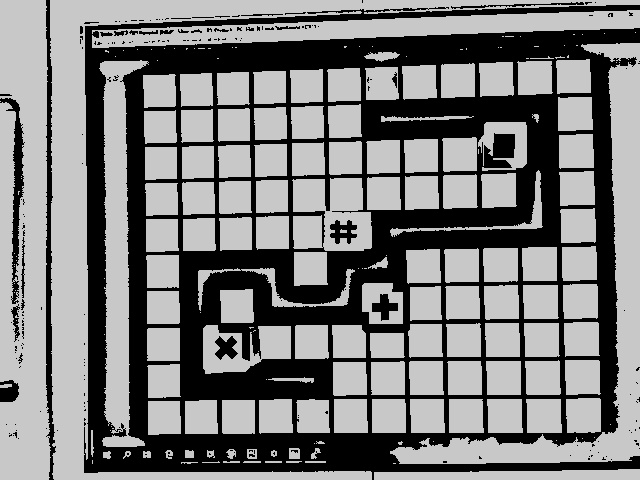
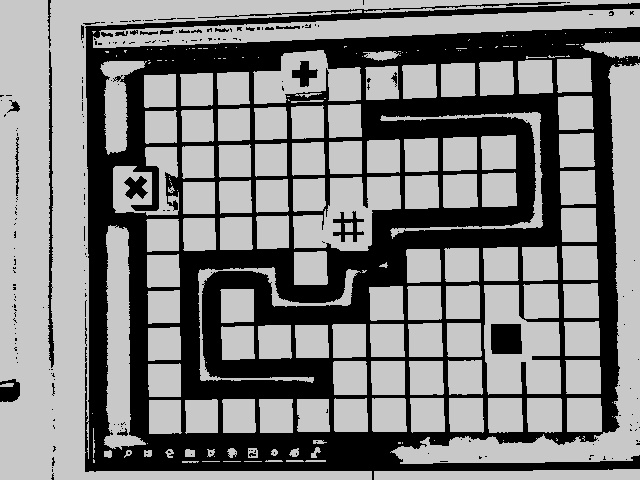
only two towers detected
(p1t2 & p2t1)

Moving on to integration in game, pending more shapes..

diff --git a/P3_Product/PythonTCP/OpenCV.py b/P3_Product/PythonTCP/OpenCV.py
@@ -24,7 +24,7 @@ class OpenCV:
     # save image to path
 
     gray_img = cv.cvtColor(frame, cv.COLOR_BGR2GRAY)  # convert image to grayscale
-    aTH = cv.adaptiveThreshold(gray_img, 200, cv.ADAPTIVE_THRESH_MEAN_C, cv.THRESH_BINARY, 41, 8)
+    aTH = cv.adaptiveThreshold(gray_img, 200, cv.ADAPTIVE_THRESH_MEAN_C, cv.THRESH_BINARY, 49, 8)
 
     cv.imwrite(file_name, aTH)
     # load image as variable testImg
@@ -37,17 +37,17 @@ class OpenCV:
         # empty space to return "nothing found"
         gray_img = cv.cvtColor(frame_, cv.COLOR_BGR2GRAY)   # convert image to grayscale
         template = cv.cvtColor(template_, cv.COLOR_BGR2GRAY)  # convert template to grayscale
-        aTH = cv.adaptiveThreshold(gray_img, 200, cv.ADAPTIVE_THRESH_MEAN_C, cv.THRESH_BINARY, 41, 8)
-        _,bTemp = cv.threshold(template, 100, 200, cv.THRESH_BINARY)
-        cv.imwrite("templateEx.jpg", bTemp)
-        cv.imwrite("realImg.jpg", aTH)
+        aTH = cv.adaptiveThreshold(gray_img, 200, cv.ADAPTIVE_THRESH_MEAN_C, cv.THRESH_BINARY, 49, 8)
+        _,bTemp = cv.threshold(template, 80, 200, cv.THRESH_BINARY)
+        # cv.imwrite("templateEx.jpg", bTemp)
+        # cv.imwrite("realImg.jpg", aTH)
 
         result = cv.matchTemplate(aTH, bTemp, cv.TM_CCOEFF_NORMED) # run the template matching and save as result
         # print("template matching..")
         # debug for visible representation of detection
         print("displaying match at position: ")
-        w, h = template.shape[::-1]                         # x and y coordinates of detected object
-        location = np.where(result >= 0.65)                  # 0.7 is accuracy used when finding position???
+        w, h = bTemp.shape[::-1]                         # x and y coordinates of detected object
+        location = np.where(result >= 0.63)                  # 0.7 is accuracy used when finding position???
                                                             # return x and y coordinates of detected object
 
         for pt in zip(*location[::-1]):

diff --git a/P3_Product/PythonTCP/TCP.py b/P3_Product/PythonTCP/TCP.py
@@ -39,15 +39,16 @@ def handle_client(client_socket):
                     cvObjectOne.OpenCV.clearArrays(cvObjectOne.OpenCV.p1t1_array, cvObjectOne.OpenCV.p1t2_array, cvObjectOne.OpenCV.p2t1_array, cvObjectOne.OpenCV.p2t2_array)
                     print("client says: " + data.decode("utf-8"))
                     cvObjectOne.OpenCV.testImgP1t1 = cvObjectOne.OpenCV.capture.read()[1]
-                    xyPosP1T1 = cvObjectOne.OpenCV.detectShape(cvObjectOne.OpenCV.template_p1t1, cvObjectOne.OpenCV.testImgP1t1, cvObjectOne.OpenCV.p1t1_array)
+                    #xyPosP1T1 = cvObjectOne.OpenCV.detectShape(cvObjectOne.OpenCV.template_p1t1, cvObjectOne.OpenCV.testImgP1t1, cvObjectOne.OpenCV.p1t1_array)
                     #print(xyPosP1T1)
                     xyPosP1T2 = cvObjectOne.OpenCV.detectShape(cvObjectOne.OpenCV.template_p1t2, cvObjectOne.OpenCV.testImgP1t1, cvObjectOne.OpenCV.p1t2_array)
                     #print(xyPosP1T2)
                     xyPosP2T1 = cvObjectOne.OpenCV.detectShape(cvObjectOne.OpenCV.template_p2t1, cvObjectOne.OpenCV.testImgP1t1, cvObjectOne.OpenCV.p2t1_array)
                     #print(xyPosP2T1)
-                    xyPosP2T2 = cvObjectOne.OpenCV.detectShape(cvObjectOne.OpenCV.template_p2t2, cvObjectOne.OpenCV.testImgP1t1, cvObjectOne.OpenCV.p2t2_array)
+                    #xyPosP2T2 = cvObjectOne.OpenCV.detectShape(cvObjectOne.OpenCV.template_p2t2, cvObjectOne.OpenCV.testImgP1t1, cvObjectOne.OpenCV.p2t2_array)
                     #print(xyPosP2T2)
-                    stringDataPos = str(xyPosP1T1 + xyPosP1T2 + xyPosP2T1 + xyPosP2T2)
+                    #stringDataPos = str(xyPosP1T1 + xyPosP1T2 + xyPosP2T1 + xyPosP2T2)
+                    stringDataPos = str(xyPosP1T2 + xyPosP2T1)
                     print(stringDataPos)
                     client_socket.send(stringDataPos.encode("utf-8"))
 
